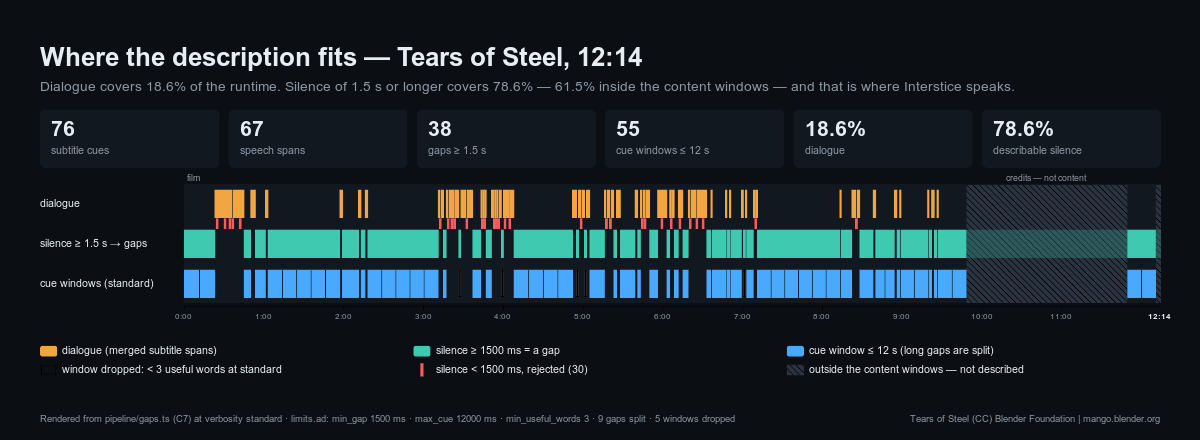
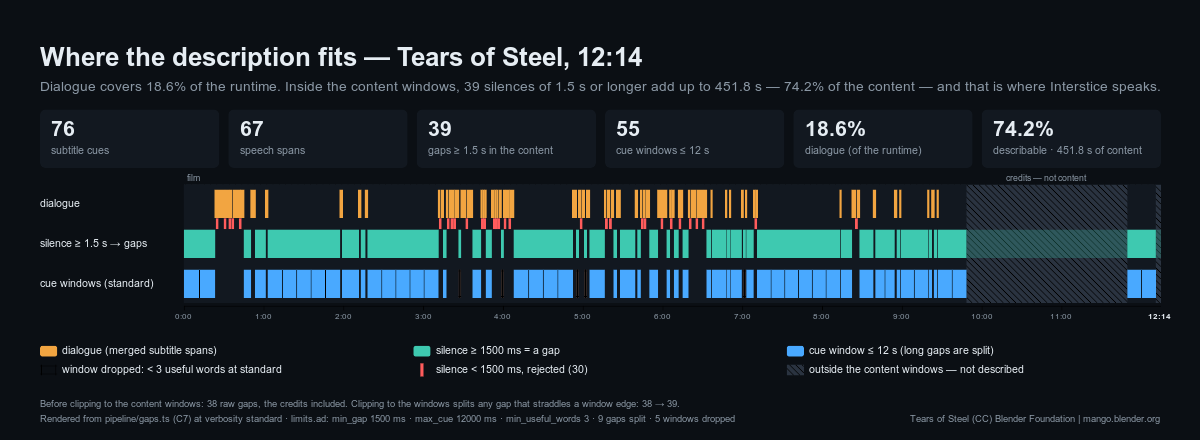
fix(viz): the gap timeline leads with the canonical figures — 39 gaps, 451.8 s = 74.2% of the content
The strip printed the raw R13 figures (38 gaps, 78.6% describable) that
_facts.yml worst_case marks superseded since R20, while SUBMISSION.md, the
README and the video say 39 / 451.8 s / 74%. The model now computes
content_ms and describable_of_content_pct from the manifest's content
windows and the clipped gaps; cards and subtitle lead with them. The raw
38 survives only as a labelled footer note; 78.6% is printed nowhere.
Tests pin the canonical figures and keep the raw ones. AC19 gains a
10-19 attempt; R55 logged. gap-split-screen.mp4 burns in none of these
figures and is unchanged.

diff --git a/tools/viz/timeline.ts b/tools/viz/timeline.ts
@@ -4,7 +4,7 @@
  * number printed comes from `buildTimelineModel`, which runs pipeline/gaps.ts.
  */
 import { C, group, line, outline, rect, svg, text } from './svg.js';
-import { fmtClock, type TimelineModel } from './model.js';
+import { fmtClock, fmtSeconds, type TimelineModel } from './model.js';
 
 export type Variant = 'video' | 'readme';
 
@@ -51,8 +51,8 @@ export function renderTimeline(m: TimelineModel, opts: TimelineOptions): string 
     text(
       L.margin,
       y,
-      `Dialogue covers ${f.dialogue_pct}% of the runtime. Silence of ${m.limits.min_gap_ms / 1000} s or longer covers ${f.silence_pct}%` +
-        ` — ${f.silence_in_content_pct}% inside the content windows — and that is where Interstice speaks.`,
+      `Dialogue covers ${f.dialogue_pct}% of the runtime. Inside the content windows, ${f.gaps_in_content} silences of ${m.limits.min_gap_ms / 1000} s or longer` +
+        ` add up to ${fmtSeconds(f.silence_in_content_ms)} — ${f.describable_of_content_pct}% of the content — and that is where Interstice speaks.`,
       { size: 22 * s, fill: C.muted },
     ),
   );
@@ -63,10 +63,10 @@ export function renderTimeline(m: TimelineModel, opts: TimelineOptions): string 
     const cards: [string, string][] = [
       ['subtitle cues', String(f.subtitle_cues)],
       ['speech spans', String(f.speech_spans)],
-      [`gaps ≥ ${m.limits.min_gap_ms / 1000} s`, String(f.gaps)],
+      [`gaps ≥ ${m.limits.min_gap_ms / 1000} s in the content`, String(f.gaps_in_content)],
       [`cue windows ≤ ${m.limits.max_cue_ms / 1000} s`, `${f.cue_windows}`],
-      ['dialogue', `${f.dialogue_pct}%`],
-      ['describable silence', `${f.silence_pct}%`],
+      ['dialogue (of the runtime)', `${f.dialogue_pct}%`],
+      [`describable · ${fmtSeconds(f.silence_in_content_ms)} of content`, `${f.describable_of_content_pct}%`],
     ];
     const gapPx = 16 * s;
     const cw = (L.width - 2 * L.margin - gapPx * (cards.length - 1)) / cards.length;
@@ -139,6 +139,15 @@ export function renderTimeline(m: TimelineModel, opts: TimelineOptions): string 
       footY,
       `Rendered from pipeline/gaps.ts (C7) at verbosity ${m.verbosity} · limits.ad: min_gap ${m.limits.min_gap_ms} ms · max_cue ${m.limits.max_cue_ms} ms · min_useful_words ${m.limits.min_useful_words}` +
         ` · ${f.split_gaps} gaps split · ${f.cue_windows_dropped} windows dropped`,
+      { size: 15 * s, fill: C.muted },
+    ),
+  );
+  // the pre-clip figures, kept only as a labelled note: the cards above are the canonical ones
+  out.push(
+    text(
+      L.margin,
+      footY - 24 * s,
+      `Before clipping to the content windows: ${f.gaps} raw gaps, the credits included. Clipping to the windows splits any gap that straddles a window edge: ${f.gaps} → ${f.gaps_in_content}.`,
       { size: 15 * s, fill: C.muted },
     ),
   );

diff --git a/tools/viz/model.ts b/tools/viz/model.ts
@@ -51,9 +51,9 @@ export interface TimelineModel {
   content_windows: ContentWindow[];
   subtitles: Subtitle[];
   speech: Subtitle[];
-  /** every silence >= min_gap_ms, before the content-window clip (README: 38) */
+  /** every silence >= min_gap_ms, before the content-window clip (38 on the demo asset) */
   gaps_raw: Gap[];
-  /** the raw gaps intersected with content windows — what C7 hands to C8/C9 */
+  /** the raw gaps intersected with content windows — what C7 hands to C8/C9 (39) */
   gaps: Gap[];
   cues: CueWindow[];
   dropped: DroppedWindow[];
@@ -61,7 +61,9 @@ export interface TimelineModel {
   figures: {
     subtitle_cues: number;
     speech_spans: number;
+    /** raw gaps, before clipToContent — a secondary figure, not the canonical one */
     gaps: number;
+    /** gaps after clipToContent — the canonical count (worst_case.gaps_detected) */
     gaps_in_content: number;
     cue_windows: number;
     cue_windows_dropped: number;
@@ -71,8 +73,13 @@ export interface TimelineModel {
     dialogue_pct: number;
     silence_ms: number;
     silence_pct: number;
+    /** describable silence after clipping, as % of the whole asset (worst_case.describable_pct) */
     silence_in_content_ms: number;
     silence_in_content_pct: number;
+    /** total length of the content windows (the whole asset when none are declared) */
+    content_ms: number;
+    /** describable silence after clipping, as % of the content itself — the headline figure */
+    describable_of_content_pct: number;
     longest_gap_ms: number;
   };
   limits: {
@@ -113,7 +120,9 @@ export function buildTimelineModel(
   const dialogue_ms = speech.reduce((a, s) => a + s.end_ms - s.start_ms, 0);
   const silence_ms = sum(gaps_raw);
   const silence_in_content_ms = sum(gaps);
-  const pct = (ms: number) => Math.round((ms / manifest.duration_ms) * 1000) / 10;
+  const content_ms = content_windows.length ? sum(content_windows.map((w) => ({ duration_ms: w.end_ms - w.start_ms }))) : manifest.duration_ms;
+  const pctOf = (ms: number, of: number) => Math.round((ms / of) * 1000) / 10;
+  const pct = (ms: number) => pctOf(ms, manifest.duration_ms);
 
   return {
     asset_id: manifest.asset_id,
@@ -142,6 +151,8 @@ export function buildTimelineModel(
       silence_pct: pct(silence_ms),
       silence_in_content_ms,
       silence_in_content_pct: pct(silence_in_content_ms),
+      content_ms,
+      describable_of_content_pct: pctOf(silence_in_content_ms, content_ms),
       longest_gap_ms: gaps_raw.reduce((a, g) => Math.max(a, g.duration_ms), 0),
     },
     limits: {

diff --git a/pipeline/__tests__/viz-model.test.ts b/pipeline/__tests__/viz-model.test.ts
@@ -6,7 +6,7 @@ import { buildTimelineModel, fmtClock } from '../../tools/viz/model.js';
 /**
  * AC19: the renders are drawn from C7 data, and the figures they print are
  * computed, not typed. This pins the model to the real asset so a strip that
- * says "38 gaps" is saying what `findGaps` says.
+ * says "39 gaps" is saying what `findGaps` + `clipToContent` say.
  */
 const SRT = readFileSync('media/tears-of-steel.en.srt', 'utf8');
 const MANIFEST = JSON.parse(readFileSync('media/tears-of-steel.manifest.json', 'utf8'));
@@ -14,13 +14,27 @@ const MANIFEST = JSON.parse(readFileSync('media/tears-of-steel.manifest.json', '
 describe('tools/viz model', () => {
   const m = buildTimelineModel(SRT, MANIFEST, 'standard');
 
-  // Fails if: the figures the README and the strip print drift from the code
-  // that produces them. 76 / 67 / 38 / 18.6% / 78.6% are the R13 measurements.
-  it('reproduces the measured figures from the real subtitles', () => {
+  // Fails if: the figures the strip leads with drift from the registry and the
+  // submission. Canonical, after clipToContent — _facts.yml worst_case:
+  // gaps_detected 39, describable_pct 61.5 (of the asset), describable_pct_note
+  // 451.8 s = 74.2% of the content, cues_by_verbosity.standard 55, dialogue_pct 18.6.
+  it('reproduces the canonical figures from the real subtitles', () => {
     expect(m.figures.subtitle_cues).toBe(76);
     expect(m.figures.speech_spans).toBe(67);
-    expect(m.figures.gaps).toBe(38);
+    expect(m.figures.gaps_in_content).toBe(39);
+    expect(m.figures.silence_in_content_ms).toBe(451_833);
+    expect((m.figures.silence_in_content_ms / 1000).toFixed(1)).toBe('451.8');
+    expect(m.figures.describable_of_content_pct).toBe(74.2);
+    expect(m.figures.silence_in_content_pct).toBe(61.5);
+    expect(m.figures.cue_windows).toBe(55);
     expect(m.figures.dialogue_pct).toBe(18.6);
+  });
+
+  // Fails if: the raw R13 figures (before clipToContent) change. The strip still
+  // prints 38 in a labelled footer note; 78.6% is no longer printed anywhere,
+  // because it counts the credits (_facts.yml: "Was 78.6% until R20").
+  it('keeps the raw pre-clip figures as R13 measured them', () => {
+    expect(m.figures.gaps).toBe(38);
     expect(m.figures.silence_pct).toBe(78.6);
   });
 

diff --git a/tools/viz/cli.ts b/tools/viz/cli.ts
@@ -61,7 +61,7 @@ async function main(): Promise<void> {
   console.log(
     `INTERSTICE.viz.model asset=${model.asset_id} subs=${f.subtitle_cues} speech=${f.speech_spans} gaps=${f.gaps}` +
       ` in_content=${f.gaps_in_content} cues=${f.cue_windows} dropped=${f.cue_windows_dropped} rejected=${f.rejected_silences}` +
-      ` dialogue_pct=${f.dialogue_pct} silence_pct=${f.silence_pct} silence_in_content_pct=${f.silence_in_content_pct} verbosity=${model.verbosity}`,
+      ` dialogue_pct=${f.dialogue_pct} silence_pct=${f.silence_pct} silence_in_content_pct=${f.silence_in_content_pct} describable_s=${(f.silence_in_content_ms / 1000).toFixed(1)} describable_of_content_pct=${f.describable_of_content_pct} verbosity=${model.verbosity}`,
   );
 
   if (cmd === 'timeline' || cmd === 'all') {

diff --git a/docs/features/interstice/_log.md b/docs/features/interstice/_log.md
@@ -492,3 +492,10 @@ No `contracts.description_track` exists for the asset (nothing under `media/` or
 **Read:** `SUBMISSION.md` §3 and §5 · `_log.md` R49 (the measured yield) through R53
 **Log read through:** R53
 **Disposition:** R53-F1 → **decided by the owner, closed.** The free tier measured 21 ok cues in a day (R49), not the 120 calls its quota names, so concise + detailed (107 cues) cannot land before the video. The quota goes to the standard track and its `AC14` regenerations. `SUBMISSION.md` §3: the app shot grows to 1:35–2:25 on the generated track; the verbosity control gets 2:25–2:30 with the computed window counts (47 / 55 / 60) and the caption that text is generated for standard only — no fixture text is heard anywhere in the video. §5 records the decision.
+
+## R55 · 2026-10-19 · claude-opus-5-5 (Claude Code) · implement + verify
+**Read:** `_facts.yml` `worst_case` (gaps_detected, describable_pct, their notes) and `acceptance[AC19]` · `tools/viz/{model,svg,timeline,cli,split}.ts` · `tools/viz/README.md` · `pipeline/__tests__/viz-model.test.ts` · `_log.md` R52–R54
+**Log read through:** R54
+**Disposition:** the gap-timeline strip led with the raw R13 figures — "38 gaps ≥ 1.5 s", "78.6% describable silence" — that `worst_case` has marked superseded since R20, while `SUBMISSION.md`, the README table and the video say 39 / 451.8 s / 74%. A judge would have seen one number and heard another. **Fixed:** `tools/viz/model.ts` gains `content_ms` and `describable_of_content_pct`, computed from the manifest's content windows and the clipped gaps; the cards and subtitle now lead with **39** gaps in the content, **451.8 s = 74.2% of the content** describable, 76 cues, 67 spans, 55 cue windows, 18.6% dialogue. The raw 38 survives only as a footer note labelled "before clipping to the content windows"; 78.6% (and 61.5%) are printed nowhere. Both PNGs re-rendered and inspected; the first try put the note on the footer line, where it ran into the attribution, so it got its own line. `gap-split-screen.mp4` burns in none of these figures — not re-rendered. `acceptance[AC19]` gains a 10-19 attempt saying so. The raw silence total prints as 577.2 s from today's model against the registry's 577.0 s (R13 assumed a 734 s runtime; ffprobe later measured 734.17 s) — kept off the strip rather than introduce a third figure.
+**Edits:** `tools/viz/model.ts` (205 lines, blob d5a28b4) · `tools/viz/timeline.ts` (336 lines, blob 105ce96) · `tools/viz/cli.ts` (99 lines, blob 2a9e9ca, log line) · `pipeline/__tests__/viz-model.test.ts` (74 lines, blob 9136092) · `_facts.yml` (2101 lines, blob 2401324 — `acceptance[AC19]` attempt appended) · `docs/video/gap-timeline-{video,readme}.{svg,png}` (re-rendered) · `_log.md` (this entry).
+**Validation:** vitest 185 (19 files, viz-model 6) · lint 0 errors (11 pre-existing warnings in `src/`) · `viz:check` 0.
